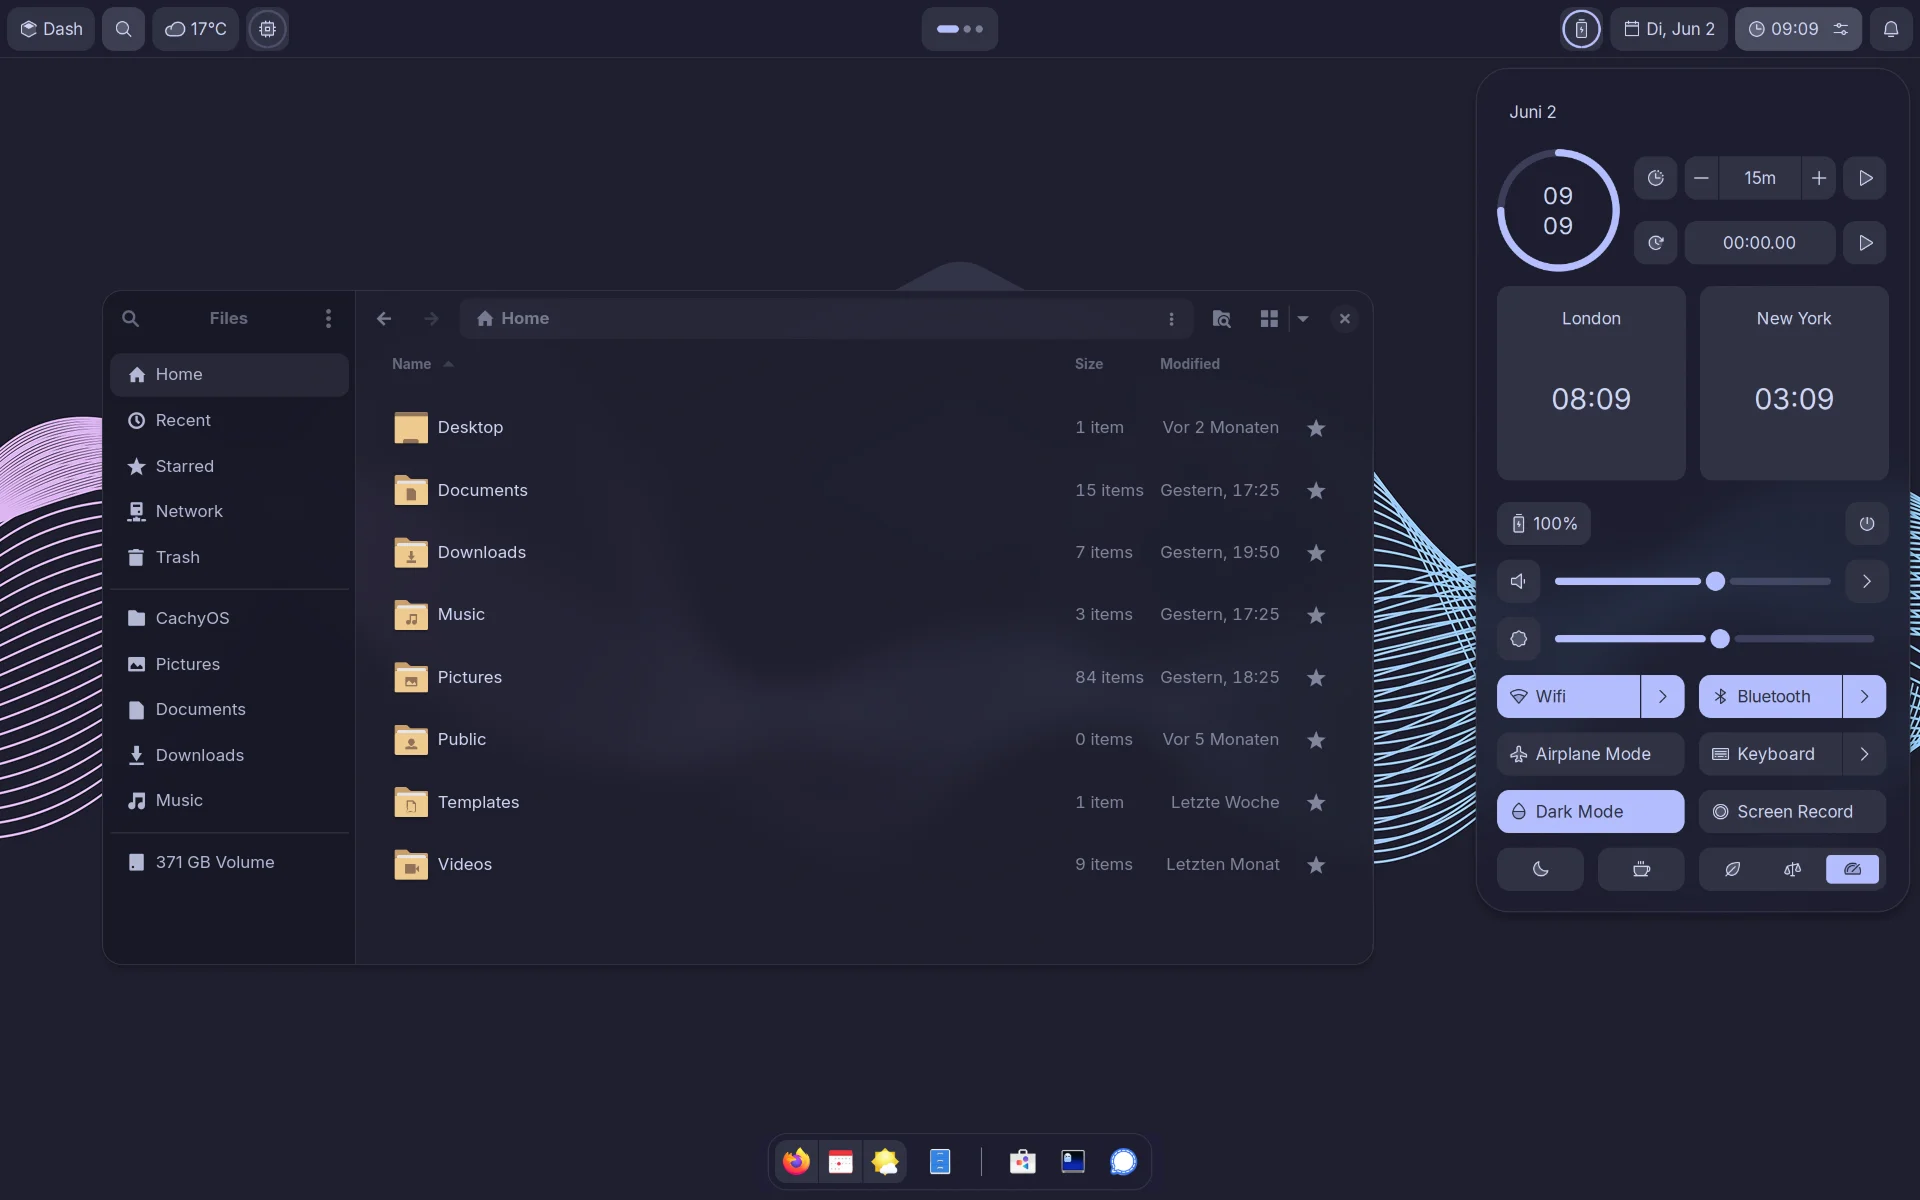
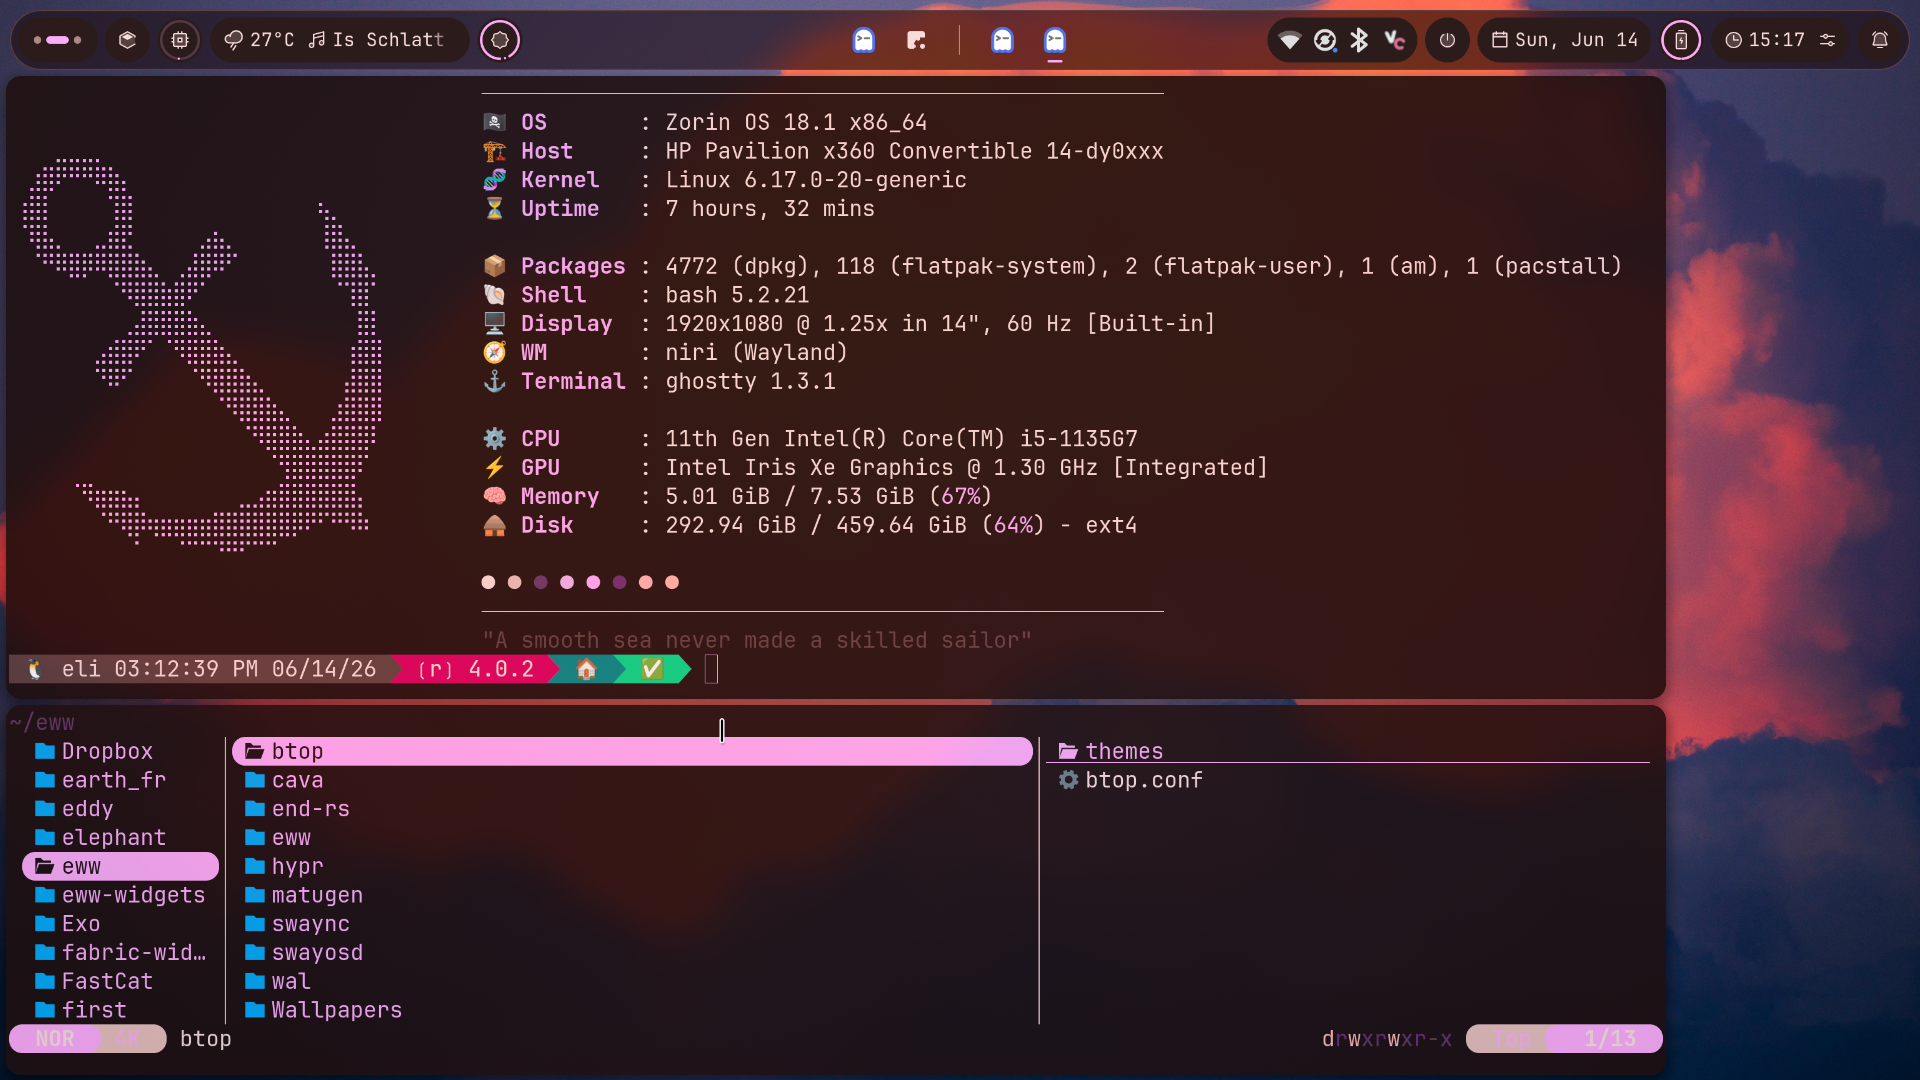
Invite Link & Carousel

diff --git a/app/components/content/Carousel.vue b/app/components/content/Carousel.vue
@@ -1,13 +1,13 @@
 <script setup lang="ts">
 const items = [
-  '/screen02.webp',
-  '/screen04.webp',
-  '/screen05.webp',
   '/screen01.webp',
   '/screen02.webp',
+  '/screen03.webp',
   '/screen04.webp',
   '/screen05.webp',
-  '/screen01.webp'
+  '/screen06.webp',
+  '/screen07.webp',
+  '/screen08.webp'
 ]
 </script>
 

diff --git a/app/app.config.ts b/app/app.config.ts
@@ -36,7 +36,7 @@ export default defineAppConfig({
     links: [
       {
         'icon': 'i-simple-icons-discord',
-        'to': 'https://discord.gg/df4TzXx8V',
+        'to': 'https://discord.gg/umtB24kc8Y',
         'target': '_blank',
         'aria-label': 'Discord'
       },
@@ -59,7 +59,7 @@ export default defineAppConfig({
       },
       {
         'icon': 'i-simple-icons-discord',
-        'to': 'https://discord.gg/df4TzXx8V',
+        'to': 'https://discord.gg/umtB24kc8Y',
         'target': '_blank',
         'aria-label': 'Nuxt on Discord'
       },
@@ -87,7 +87,7 @@ export default defineAppConfig({
         {
           icon: 'i-lucide-message-circle-question-mark',
           label: 'Chat on Discord',
-          to: 'https://discord.gg/df4TzXx8V',
+          to: 'https://discord.gg/umtB24kc8Y',
           target: '_blank'
         }
       ]

diff --git a/app/pages/index.vue b/app/pages/index.vue
@@ -51,10 +51,10 @@ useSeoMeta({
           </UButton>
         </div>
         <div class="w-full max-w-6xl mt-6 lg:mt-12 px-4">
-          <UColorModeImage
-            light="/landing04.webp"
-            dark="/landing04.webp"
+          <img
+            src="/hero.gif"
             class="rounded-2xl w-full"
+            style="filter: saturate(1.2) brightness(1.0) contrast(1.1);"
           />
         </div>
       </UContainer>